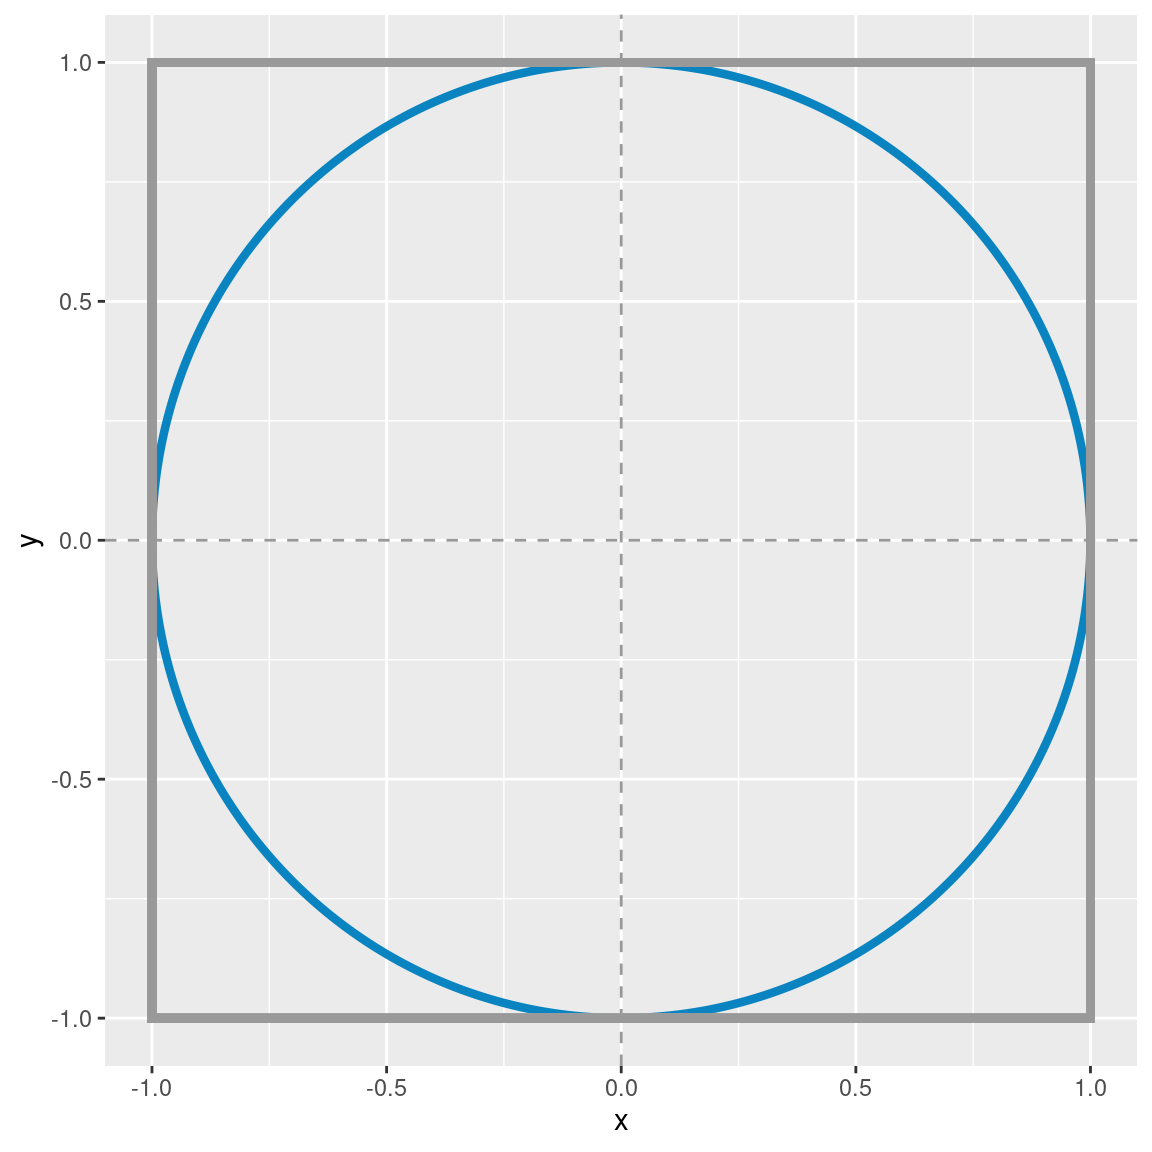
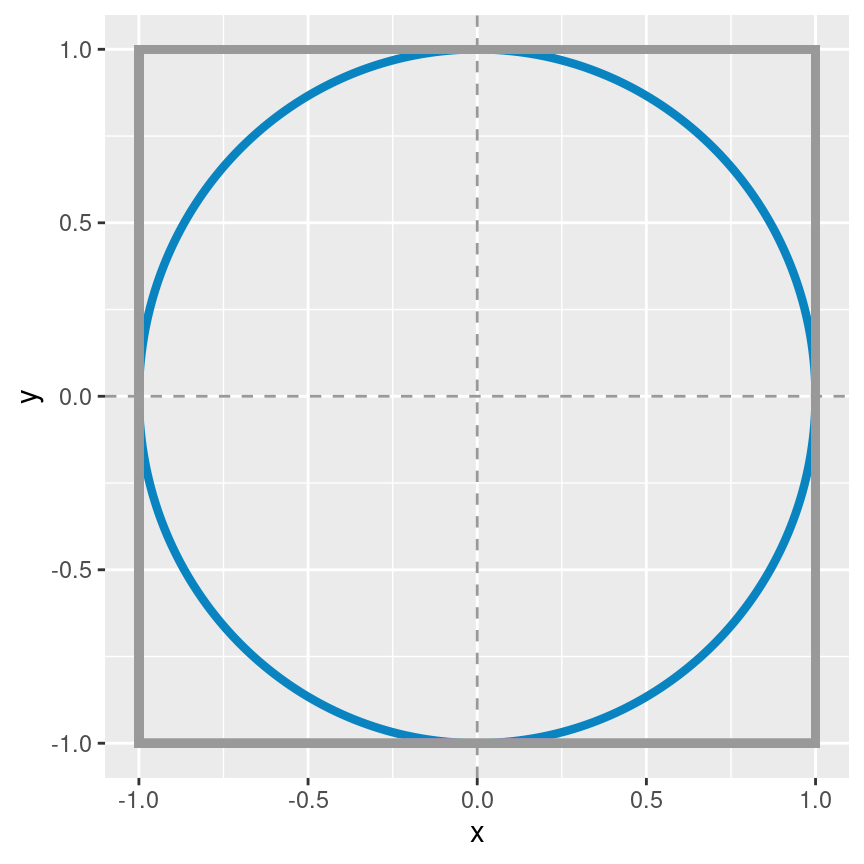
Built site for gh-pages

diff --git a/practica/practica_03.html b/practica/practica_03.html
@@ -309,7 +309,7 @@ div.csl-indent {
 <div class="cell-output-display">
 <div class="quarto-figure quarto-figure-center">
 <figure class="figure">
-<p><img src="practica_03_files/figure-html/circulo-cuadrado-pi-1.png" class="img-fluid figure-img" width="576"></p>
+<p><img src="practica_03_files/figure-html/circulo-cuadrado-pi-1.png" class="img-fluid figure-img" width="432"></p>
 </figure>
 </div>
 </div>
@@ -345,9 +345,12 @@ f(x) = \frac{2}{\omega} \phi\left(\frac{x-\xi}{\omega}\right)\Phi\left( \alpha \
 \]</span></p>
 <p>El peso se encuentra medido en gramos y la longitud en centímetros. El equipo provee las muestras que obtuvieron del <em>posterior</em>. Las mismas se pueden leer en <code>R</code> utilizando el siguiente bloque de código.</p>
 <div class="cell">
-<div class="sourceCode cell-code" id="cb1"><pre class="sourceCode r code-with-copy"><code class="sourceCode r"><span id="cb1-1"><a href="#cb1-1" aria-hidden="true" tabindex="-1"></a>url <span class="ot">&lt;-</span> <span class="st">"https://raw.githubusercontent.com/estadisticaunr/estadistica-bayesiana/main/datos/fish-market-posterior.csv"</span></span>
-<span id="cb1-2"><a href="#cb1-2" aria-hidden="true" tabindex="-1"></a>df_posterior <span class="ot">&lt;-</span> readr<span class="sc">::</span><span class="fu">read_csv</span>(url)</span>
-<span id="cb1-3"><a href="#cb1-3" aria-hidden="true" tabindex="-1"></a><span class="fu">head</span>(df_posterior)</span></code><button title="Copiar al portapapeles" class="code-copy-button"><i class="bi"></i></button></pre></div>
+<div class="sourceCode cell-code" id="cb1"><pre class="sourceCode r code-with-copy"><code class="sourceCode r"><span id="cb1-1"><a href="#cb1-1" aria-hidden="true" tabindex="-1"></a>url <span class="ot">&lt;-</span> <span class="fu">paste0</span>(</span>
+<span id="cb1-2"><a href="#cb1-2" aria-hidden="true" tabindex="-1"></a>    <span class="st">"https://raw.githubusercontent.com/estadisticaunr/estadistica-bayesiana/"</span>,</span>
+<span id="cb1-3"><a href="#cb1-3" aria-hidden="true" tabindex="-1"></a>    <span class="st">"main/datos/fish-market-posterior.csv"</span></span>
+<span id="cb1-4"><a href="#cb1-4" aria-hidden="true" tabindex="-1"></a>)</span>
+<span id="cb1-5"><a href="#cb1-5" aria-hidden="true" tabindex="-1"></a>df_posterior <span class="ot">&lt;-</span> readr<span class="sc">::</span><span class="fu">read_csv</span>(url)</span>
+<span id="cb1-6"><a href="#cb1-6" aria-hidden="true" tabindex="-1"></a><span class="fu">head</span>(df_posterior)</span></code><button title="Copiar al portapapeles" class="code-copy-button"><i class="bi"></i></button></pre></div>
 </div>
 <pre><code># A tibble: 6 × 3
   intercepto pendiente sigma
